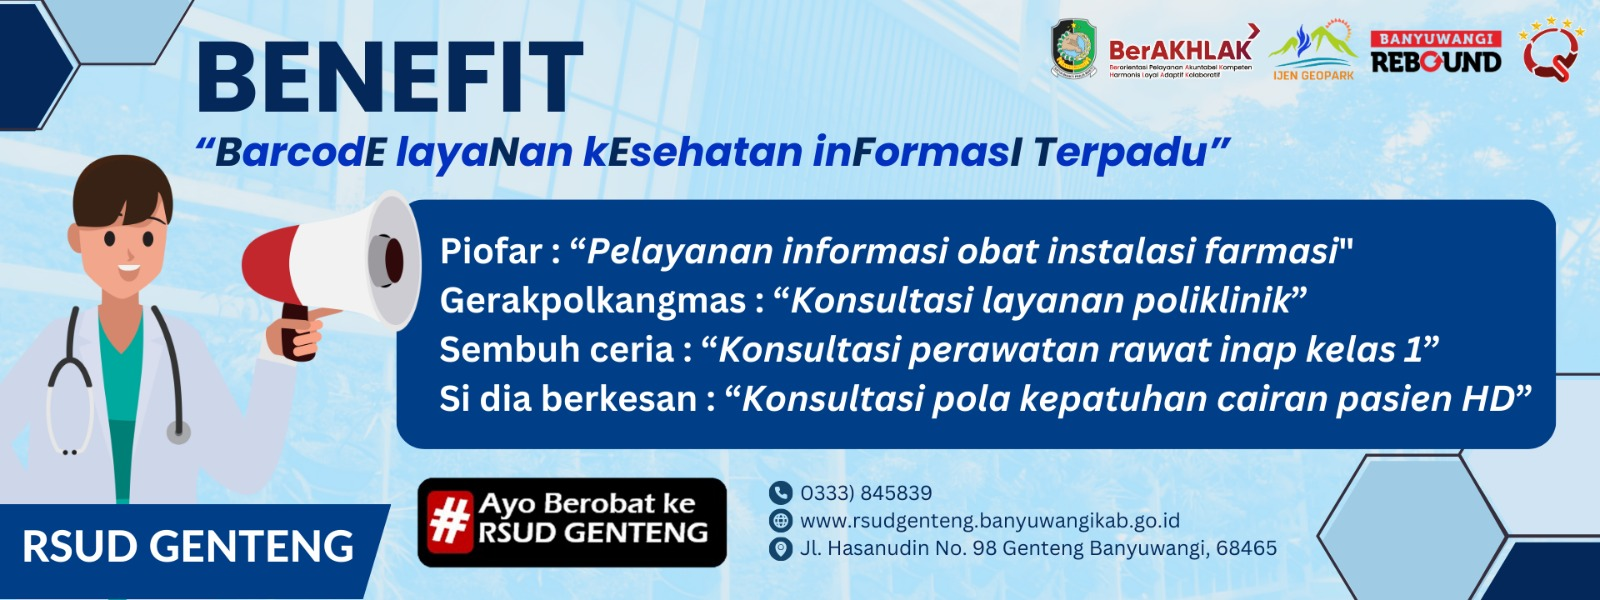
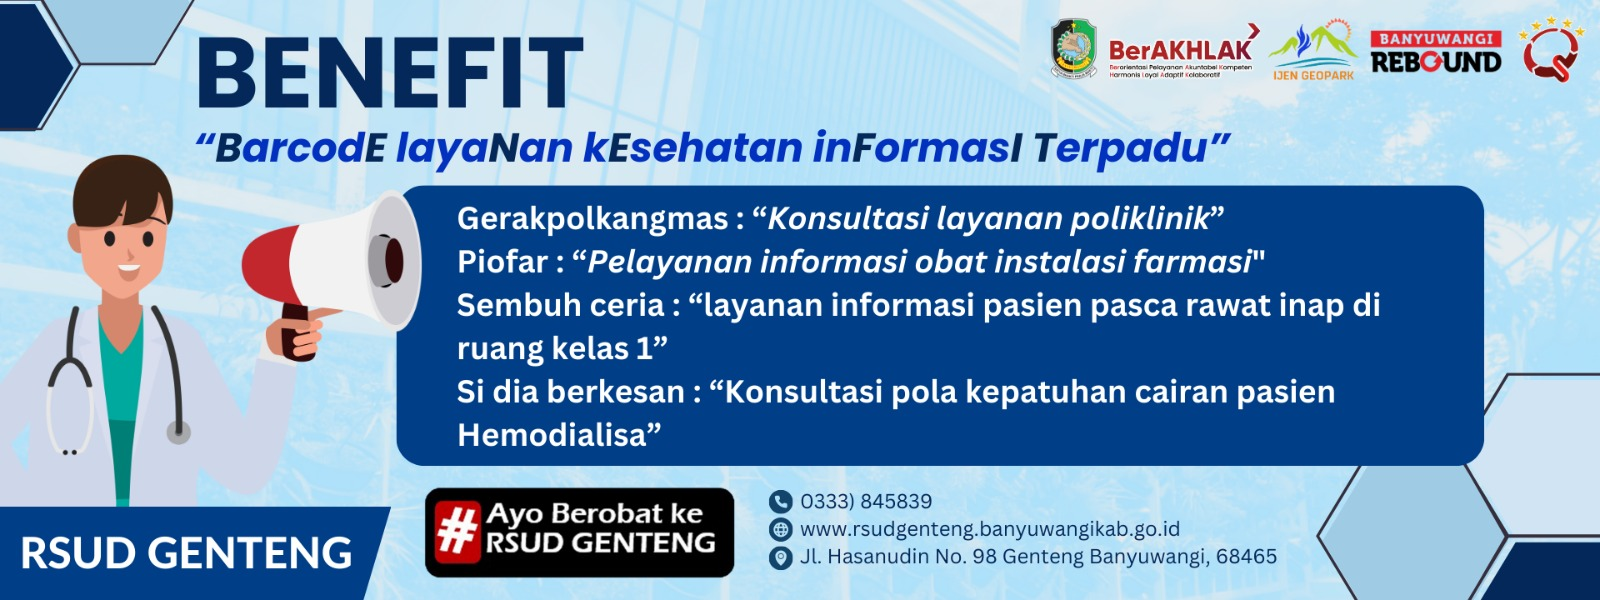
perbaikan

Changed region(s): [[0.0, 0.06, 1.0, 0.99], [0.0, 0.99, 0.2188, 1.0]]

diff --git a/application/views/frontend/inovasi/index.php b/application/views/frontend/inovasi/index.php
@@ -37,9 +37,11 @@
 			<div class="col-md-4">
 				<div class="card">
 					<div class="card-body">
-						<h5 class="card-title">PIOVAR</h5>
+						<h5 class="card-title">PIOFAR</h5>
 						<p class="card-text">Pelayanan informasi obat instalasi farmasi</p>
-						<button class="btn btn-primary">Klik</button>
+						<button class="btn btn-primary">
+							<a href="https://wa.me/6281235117253?text=Saya%20ingin%20bertanya%20tentang%20obat" style="color: white;">Hubungi Kami</a>
+						</button>
 					</div>
 				</div>
 			</div>
@@ -48,7 +50,7 @@
 					<div class="card-body">
 						<h5 class="card-title">GERAKPOL KANGMAS</h5>
 						<p class="card-text">Konsultasi layanan poliklinik</p>
-						<button class="btn btn-primary">Klik</button>
+						<button class="btn btn-primary"><a href="https://wa.me/6282228748899?text=Halo,%20saya%20ingin%20bertanya%20mengenai%20poliklinik" style="color: white;">Hubungi Kami</a></button>
 					</div>
 				</div>
 			</div>
@@ -59,7 +61,8 @@
 					<div class="card-body">
 						<h5 class="card-title">SEMBUH CERIA</h5>
 						<p class="card-text">Konsultasi perawatan rawat inap kelas 1</p>
-						<button class="btn btn-primary">Klik</button>
+						<button class="btn btn-primary"><a href="https://wa.me/6281131194118?text=Halo,%20saya%20pasien%20pasca%20rawat%20inap%20Ruang%20Kelas%201" style="color: white;">Hubungi Kami</a>
+						</button>
 					</div>
 				</div>
 			</div>
@@ -70,6 +73,17 @@
 						<p class="card-text">Konsultasi pola kepatuhan cairan pasien HD</p>
 						<button class="btn btn-primary">Klik</button>
 					</div>
+				</div>
+			</div>
+		</div>
+	</div>
+	<div class="row justify-content-center"> <!-- Menggunakan justify-content-center untuk tengah horizontal -->
+		<div class="col-md-1">
+			<div class="card custom-card">
+				<div class="card-body">
+					<a href='http://www.freevisitorcounters.com'>at Freevisitorcounters.com</a>
+					<script type='text/javascript' src='https://www.freevisitorcounters.com/auth.php?id=bdf3fe564d5a0b284c2b63bd9a19a06c396007ba'></script>
+					<script type="text/javascript" src="https://www.freevisitorcounters.com/en/home/counter/1079940/t/7"></script>
 				</div>
 			</div>
 		</div>
